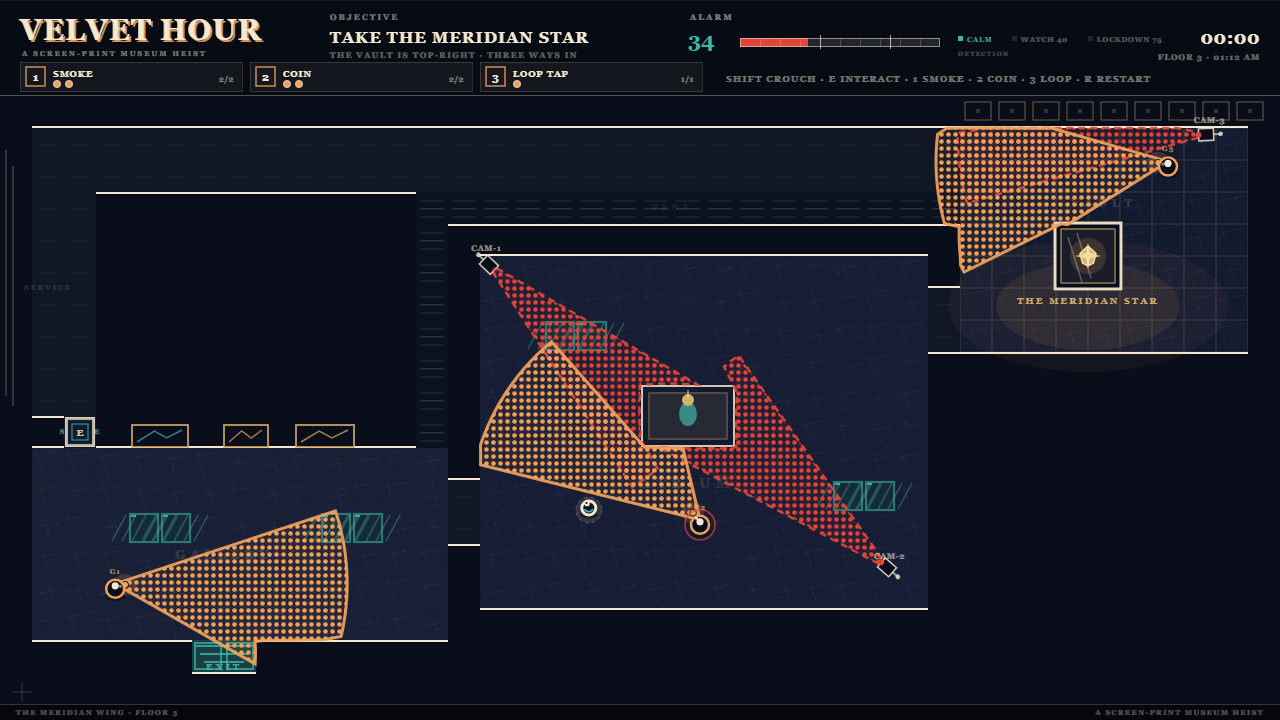
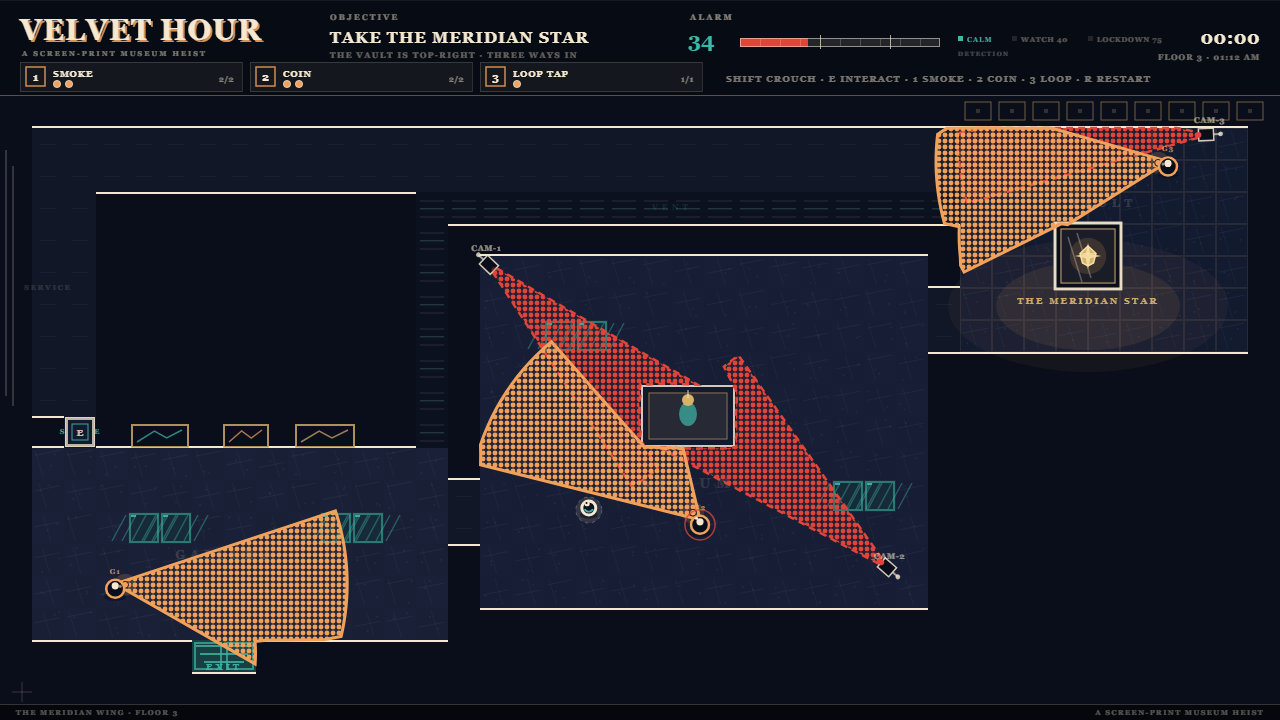
Velvet Hour: denser lantern and camera halftones

Changed region(s): [[0.375, 0.3667, 0.6875, 0.7944], [0.7188, 0.1528, 0.9375, 0.3667], [0.0938, 0.7028, 0.2812, 0.9167]]

diff --git a/game/js/render.js b/game/js/render.js
@@ -60,8 +60,8 @@ let PATTERNS = null;
 function patterns(ctx) {
   if (PATTERNS) return PATTERNS;
   PATTERNS = {
-    amber: makeDot(ctx, C.amber, 7, 2.3, 1),
-    alarm: makeDot(ctx, C.alarm, 7, 2.3, 1),
+    amber: makeDot(ctx, C.amber, 6, 2.45, 1),
+    alarm: makeDot(ctx, C.alarm, 6, 2.45, 1),
     teal: makeDot(ctx, C.teal, 7, 2.3, 1),
     cream: makeDot(ctx, C.cream, 8, 1.2, 0.75),
     smoke: makeDot(ctx, C.smoke, 6, 1.7, 0.7),
@@ -389,7 +389,7 @@ function fan(ctx, pts, color, pattern, dashed) {
   ctx.moveTo(pts[0].x, pts[0].y);
   for (let i = 1; i < pts.length; i++) ctx.lineTo(pts[i].x, pts[i].y);
   ctx.closePath();
-  ctx.strokeStyle = rgba(color, 0.92);
+  ctx.strokeStyle = color;
   ctx.lineWidth = dashed ? 2.5 : 3;
   ctx.setLineDash(dashed ? [7, 5] : []);
   ctx.stroke();
